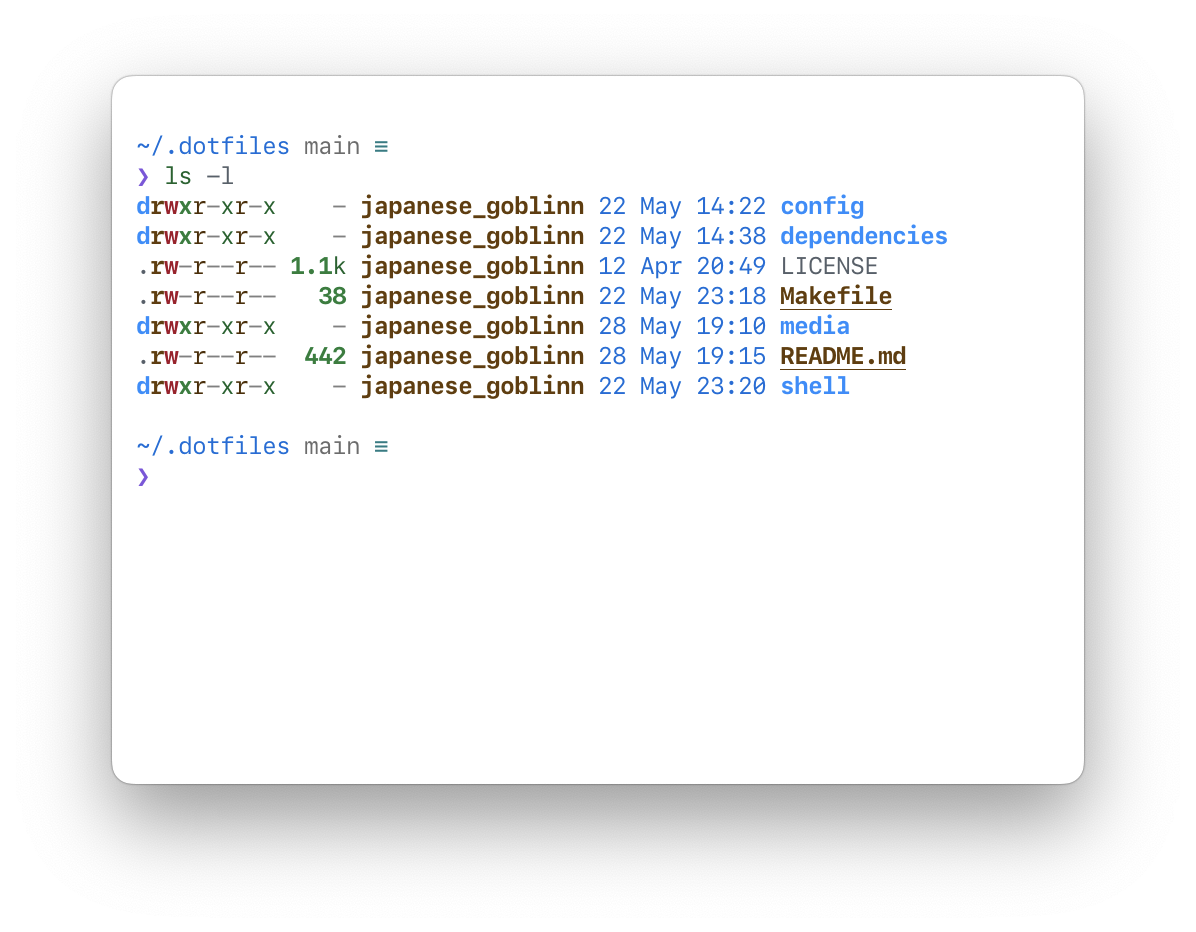
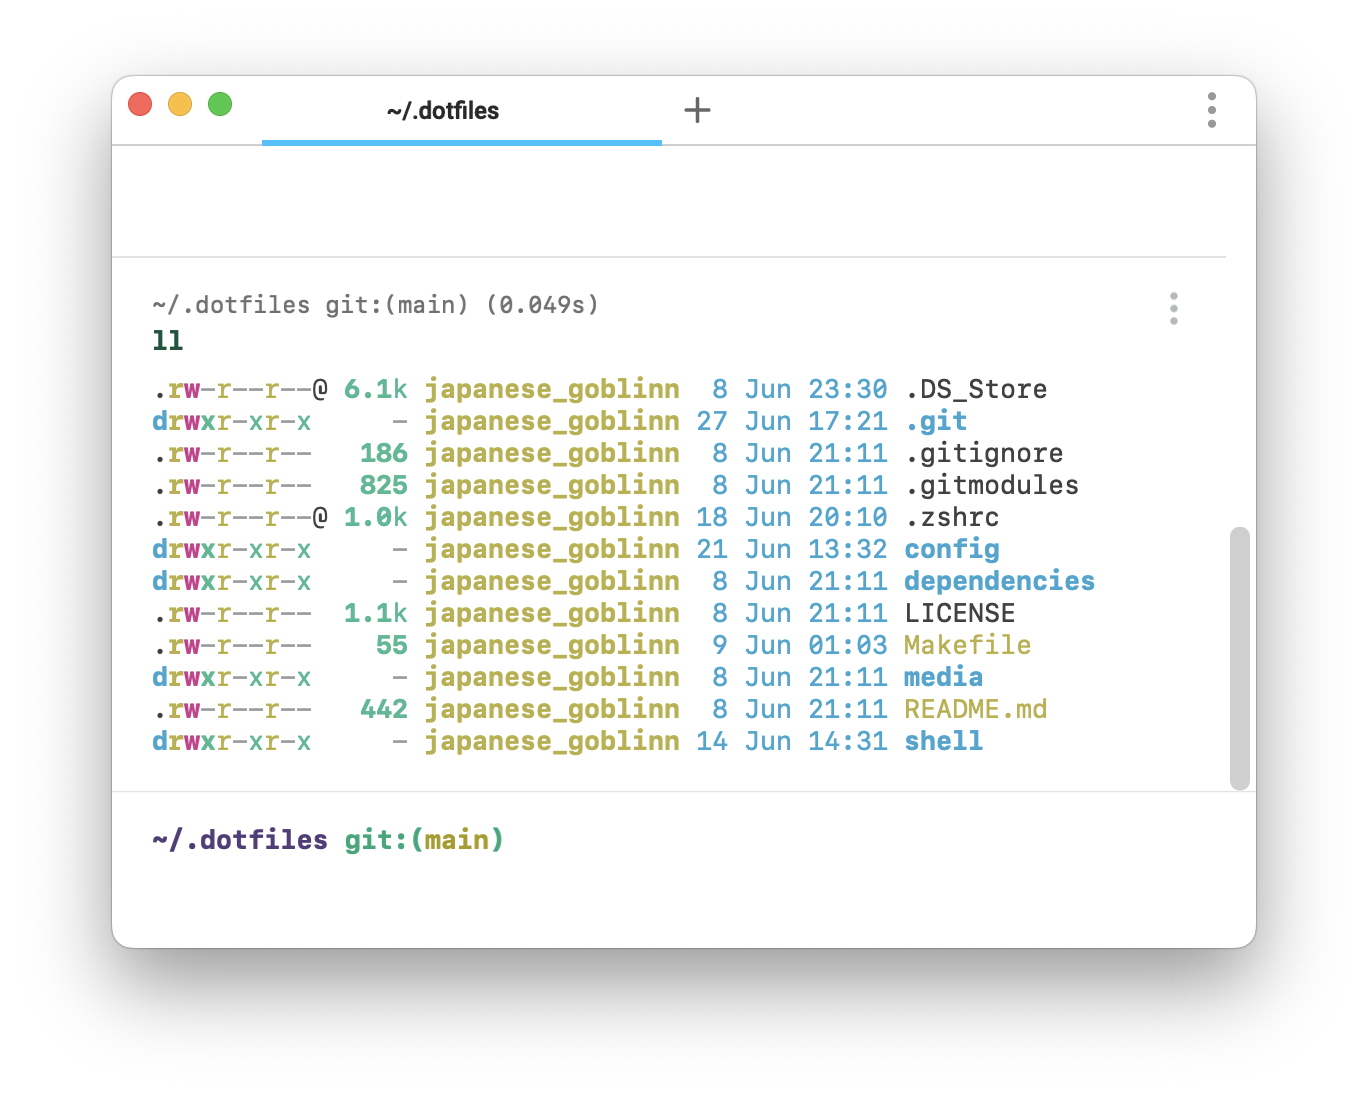
feat: warp

Changed region(s): [[0.0619, 0.0622, 0.9281, 0.9024], [0.1237, 0.7468, 0.3712, 0.7779]]

diff --git a/README.md b/README.md
@@ -1,5 +1,7 @@
 [![My Twitter](https://img.shields.io/badge/Follow%20Me-0a0a0a.svg?style=flat&colorA=0a0a0a&logo=twitter)](https://twitter.com/japanese_goblin) [![My Telegram Channel](https://img.shields.io/badge/Read%20My%20Blog-0a0a0a.svg?style=flat&colorA=0a0a0a&logo=telegram)](https://t.me/japanese_goblinn_mind)
 
+Currently switched to [Warp](https://www.warp.dev/) as my main terminal.
+
 ```shell
 git clone "https://github.com/japanese-goblinn/.dotfiles.git" && cd ".dotfiles/" && make install
 ```
